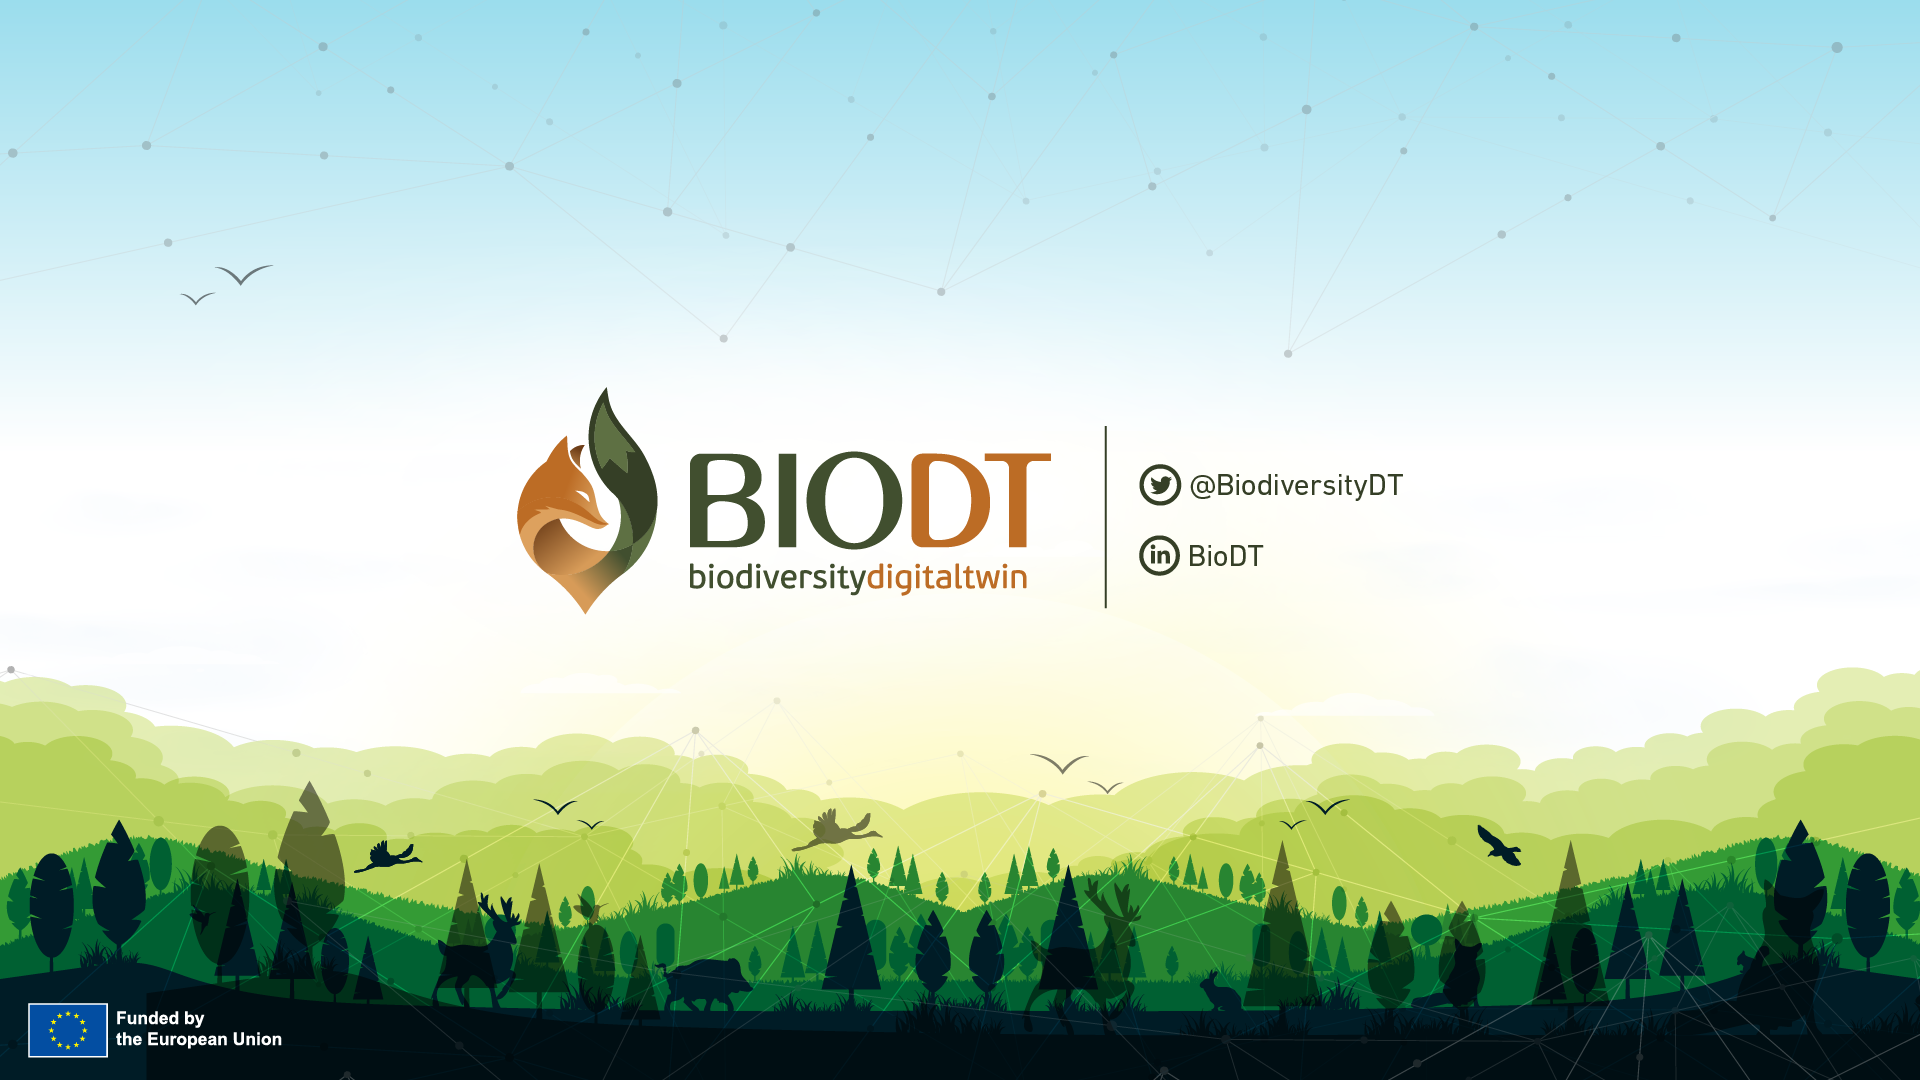
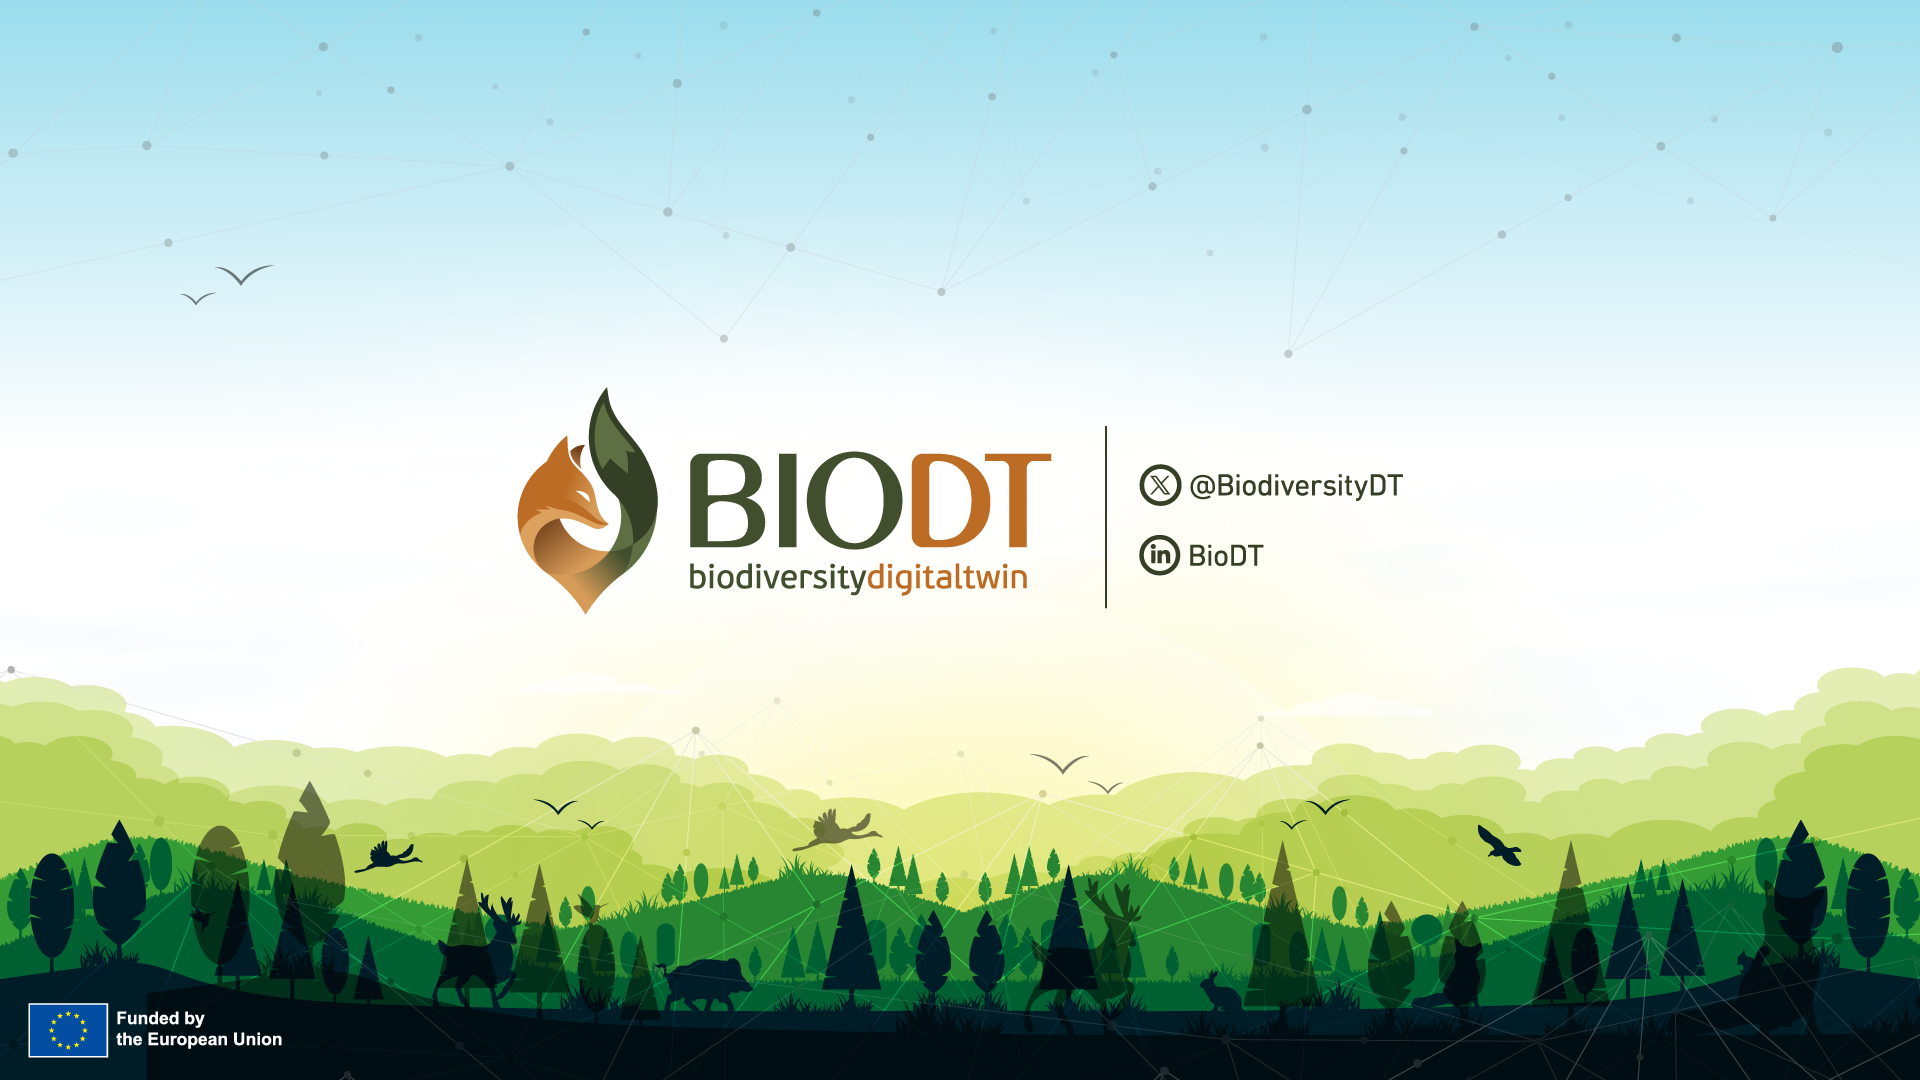
Updated template

diff --git a/changelog.md b/changelog.md
@@ -1,2 +1,5 @@
+#### 05.12.2023
+- Updated template (Twitter --> X)
+
 #### 30.05.2022 
 - Incorporated BioDT theme, modified filter, removed CSC themes
